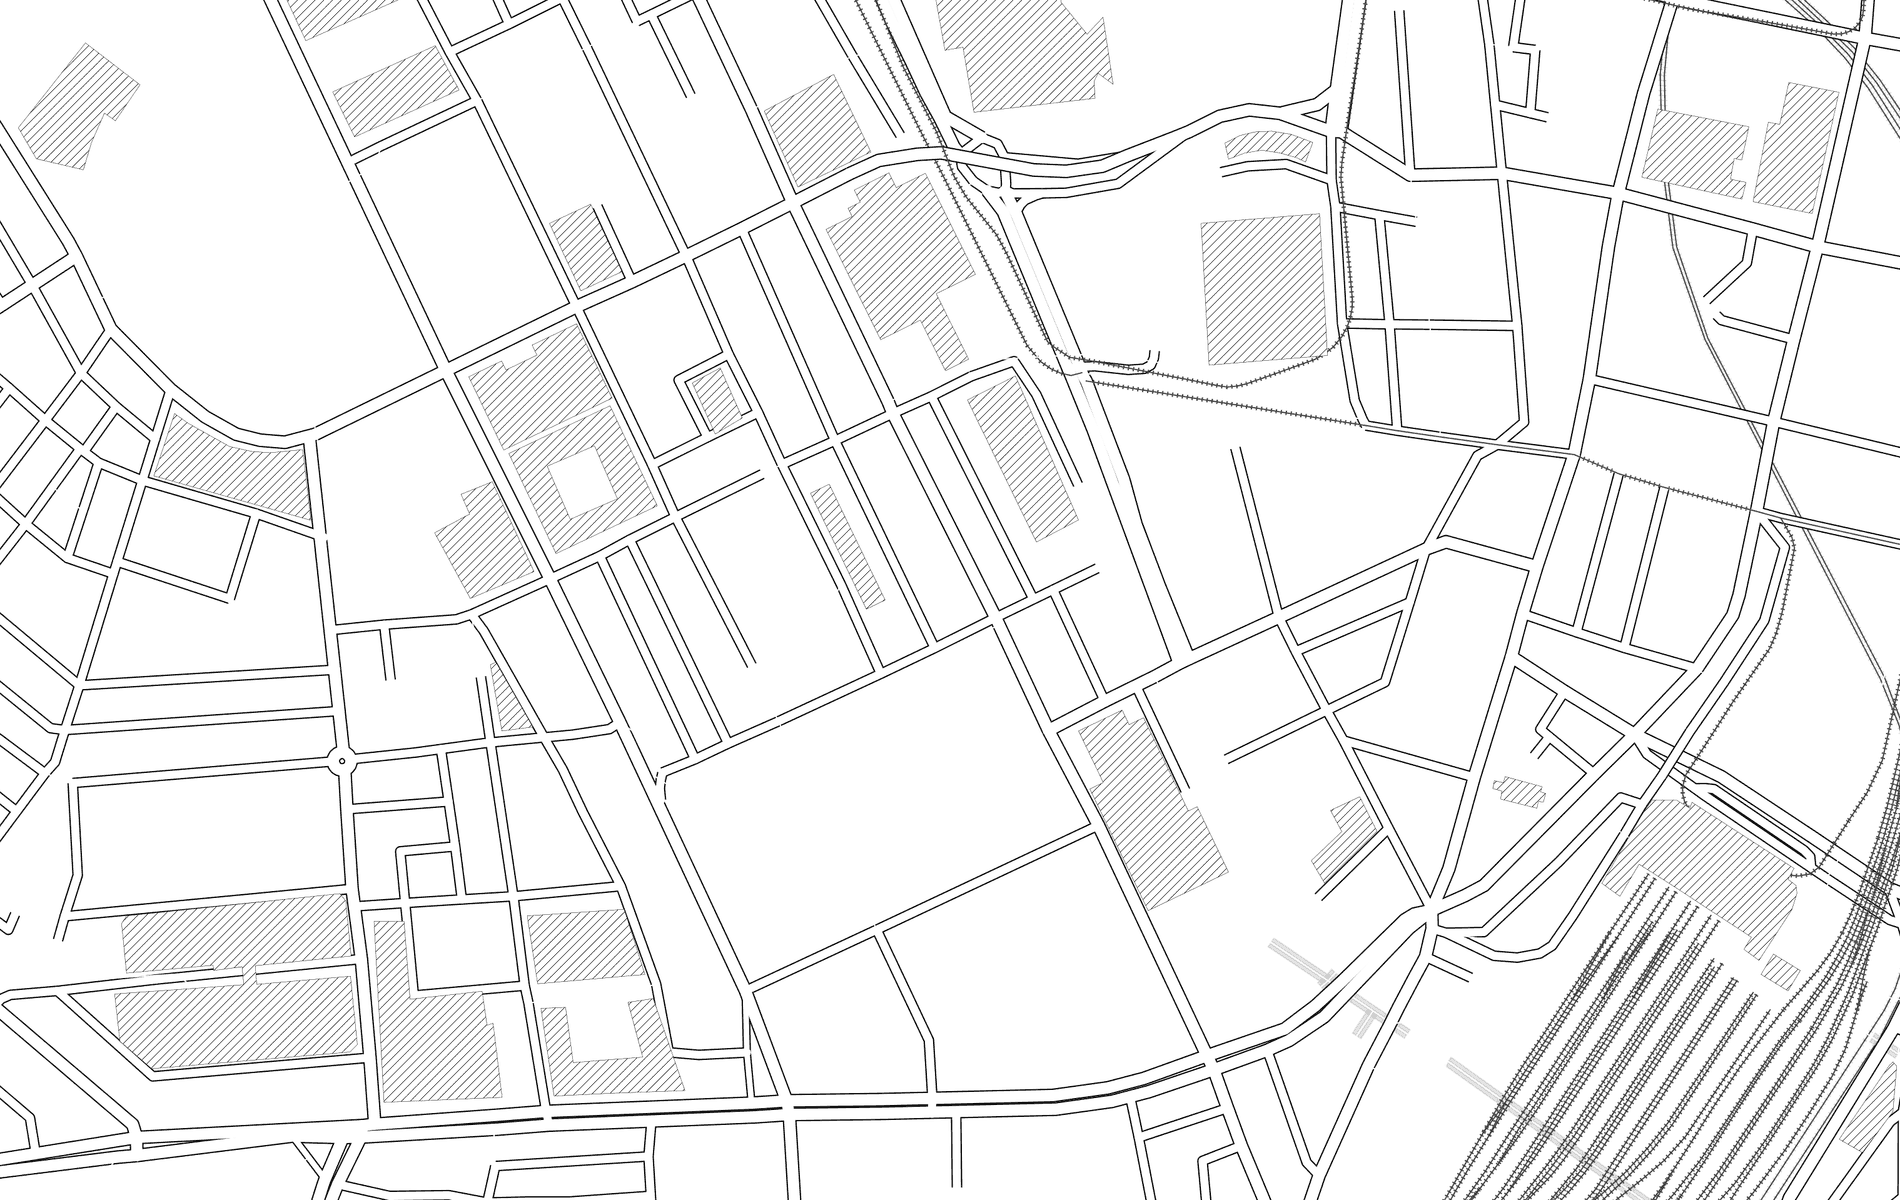
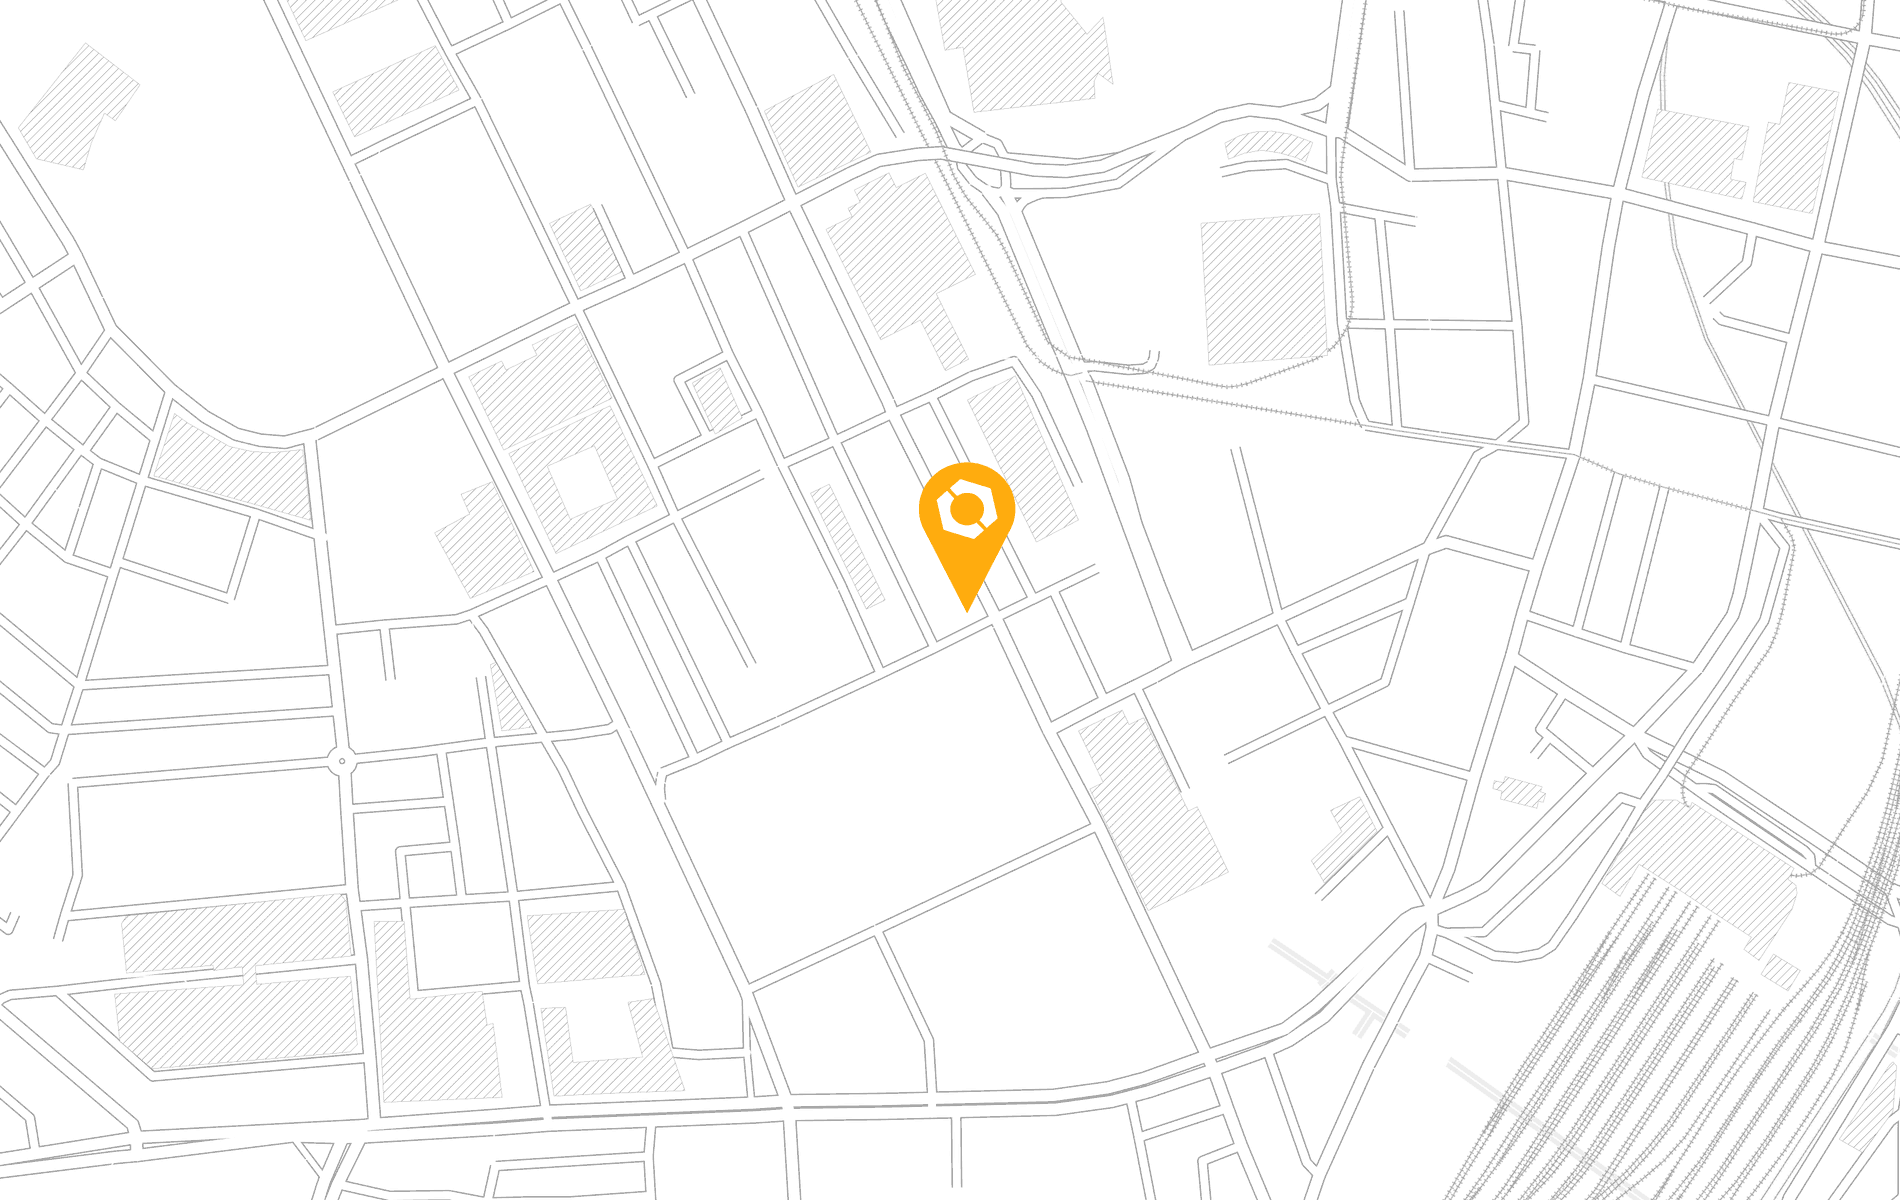
Updated layouts for contact, neighbourhood and general tweaks

diff --git a/stylesheets/styles.css b/stylesheets/styles.css
@@ -7,7 +7,6 @@ body { margin: 0; padding: 0; background: #fff; color: #000; }
 
 section, section p, section li { font: 21px/1.25em "chaparral-pro", georgia, serif; }
 
-a { font-style: italic; }
 
 .clear {clear: both;}
 
@@ -83,7 +82,7 @@ header.header p {width: auto; text-align: left; font-family: "chaparral-pro", ge
 header.header p:before { content: "because ";}
 
 
-#intro {  padding: 4% 5% 3% 7.5%; background: url(../images/iconfade.png) fixed top center; color: #121212; }
+#intro {  padding: 4% 5% 3% 7.5%; background: url(../images/white85trans.png), url(../images/iconfade.png); background-attachment: fixed; background-position: top center; color: #121212; }
 #intro a { color: #000;}
 #intro p { max-width: 520px;}
 #intro p.first { max-width: 100%;}
@@ -105,18 +104,20 @@ nav li a:hover { background: #C91604;  -webkit-transition: all 0.1s ease-out;}
 #the-space h2 span { font-size: 38px; letter-spacing: normal; margin-right: -10px; position: relative; top: -62px; border-bottom: 5px solid #fff; }
 #the-space header p {background: rgb(191,21,4); color: #fff; font-size: 0.8em; overflow: auto; padding: 0.5em 1em;}
 #the-space header span.date {margin-left: 1em;}
-#the-space header a.lastfm {float: right;}
+#the-space header .musicsources {float: right;}
 #the-space section p { background: rgba(0,0,0,0.77) url(../images/iconfade.png) fixed top center; color: #fff; width: 32%; min-width: 300px; float: left; clear: left; padding: 15px 4.5% 15px 7%; margin: 0; }
 #the-space section p:last-child { padding-bottom: 64px; }
 #the-space section p.first { padding-top: 64px; } /* I know, I know, this is a dirty hack. Please fix me. */
 #the-space a { color: #fff; }
 
-#the-neighbourhood {background: #c91604 url(../images/partners.jpg) fixed repeat 90% 30%; overflow: auto; padding: 11% 0 11% 0;}
-	#the-neighbourhood #map {float: left; height: 100%; margin: 0 2% 0 2%; position: relative; width: 40%;}
-	#the-neighbourhood #hood-talk {background: rgba(250,250,250,0.77); color: #000; float: right; margin-right: 2%; padding: 3%; width: 48%;}
+#the-neighbourhood {background: #fff url(../images/mapimage-1.png) fixed repeat 50% 50%; overflow: auto; padding: 6% 0 11% 0;}
+	#the-neighbourhood #map {float: left; height: 80%; margin: 3.4% 2% 0 2%; position: relative; width: 40%;}
+	#the-neighbourhood #hood-talk {background: rgba(255,255,255,0.8); color: #111; float: right; margin-right: 0; padding: 3% 6% 3% 2%; width: 32%;}
 	#the-neighbourhood iframe {height: 100%; width: 100%;}
 #the-neighbourhood h2 {  font-weight: 200; font-size: 87px; line-height: 74px; color: #212121; display: block; margin-bottom: 45px; letter-spacing: -0.03em; width: 100% !important;  }
-#the-neighbourhood h2 span { font-family: "din-condensed-web", "Arial Narrow", sans-serif; text-transform: uppercase; letter-spacing: -0.07em; color: #616161; display: block; }
+#the-neighbourhood h2 span { font-family: "din-condensed-web", "Arial Narrow", sans-serif; text-transform: uppercase; letter-spacing: -0.07em; color: #ffac0e; display: block; }
+#the-neighbourhood a { color: #000;}
+#the-neighbourhood a:hover { color: #ffac0e; }
 
 #how-it-works { background: #fff url(../images/nametag.svg) scroll no-repeat -7% 10%; background-size: 33%;  color: #222; clear: right; padding: 5% 8% 7% 32%; }
 #how-it-works h2 { color: #ffac0e; font-family: "din-condensed-web", "Arial Narrow", sans-serif; font-weight: 200; font-size: 117px; line-height: 0.8; text-transform: uppercase; letter-spacing: -0.06em;}
@@ -128,19 +129,26 @@ nav li a:hover { background: #C91604;  -webkit-transition: all 0.1s ease-out;}
 #membership-details li:hover a.register-interest:hover { background: #BF1504;  color: #fff; -webkit-transition: all 0.15s ease-in; }
 
 
+#contact { background: url(../images/black85trans.png), url(../images/mapimage-1.png); background-attachment: fixed; background-position: 50% 50%;}
 #contact h2 {font-family: "din-condensed-web", "Arial Narrow", sans-serif; font-weight: 200; font-size: 87px; line-height: 74px; padding: 32px 0 0 0; text-transform: uppercase; letter-spacing: -0.07em; }
 #contact .streetaddress { display: block; font-size: 32px; margin: 8px 0;}
 #contact .streetaddress a { font-style: normal; }
+#contact .open-hours { margin-bottom: 2.4em;}
 
 #contact #vitals { width: 55%; display: inline-block; vertical-align: top;}
 
 #contact #bios { width: 42%; display: inline-block;}
 
 #contact #bios section { display: inline-block; vertical-align: top; width: 22%; margin: 0 5%; text-align: center;}
-#contact #bios img { width: 120px; height: 120px; border-radius: 75px; }
+#contact #bios img { width: 120px; height: 120px; border-radius: 75px; -webkit-transition: 0.6s all ease-in; }
+#contact #bios a:hover img { opacity: 0.6; -webkit-transition: 0.1s all ease-out; }
 #contact #bios p { font-size: 0.8em; line-height: 1.3em;}
 #contact #bios h3 { font-weight: 200;  }
+#contact #bios .email { font-family: "chaparral-pro", georgia, serif; font-weight: 200; font-size: 52px; margin: 0.5em 0; text-align: center; }
+#contact #bios .email a { font-style: normal;}
 
+#emailform { margin-top: 1em;}
+#emailform p { font-size: 0.8em; }
 #emailform p, #emailform form { margin-top: 0;}
 
 }

diff --git a/index.html b/index.html
@@ -51,7 +51,7 @@
 					&#9835;
 					<span class="header">Last Played:</span>
 					<span class="song">…</span>
-					<a href="http://www.last.fm/user/workatworkbench" class="lastfm">The Workbench on Last.fm</a>
+					<span class="musicsources">We&rsquo;re on <a href="http://www.rdio.com/people/TheWorkbench/playlists/">Rdio</a> and <a href="http://www.last.fm/user/workatworkbench" class="lastfm">Last.fm</a></span>
 				</p>
 			</header>
 
@@ -195,7 +195,7 @@
 			<section id="hood-talk">
 				<h2><span>Ultimo, Sydney</span> is our &lsquo;hood</h2>
 				<p class="first">We&rsquo;re excited to be a part of the community in Ultimo, just outside the Sydney CBD.</p>
-				<p>The area has plenty of cafes (<a href="https://foursquare.com/v/mio-mia-cafe/4ed4234d490168f8d42a687f">Mio Mia</a> in our building, <a href="http://www.ledepot.com.au/">Le Depot</a> just up the road, and a stack more including the coffee-nerd haven <a href="http://meccaespresso.com/">Mecca Espresso</a> within a block away) and plenty of options for lunch (we&rsquo;re often at <a href="http://www.urbanspoon.com/r/70/1445468/restaurant/Sydney/Sydney-Kopitiam-Cafe-Ultimo">Kopitiam</a> for malaysian street food). Haymarket&rsquo;s a few minutes walk if you&rsquo;d like Sydney&rsquo;s best noodles, featuring incongrous grapevines</p>
+				<p>The area has plenty of cafes (<a href="https://foursquare.com/v/mio-mia-cafe/4ed4234d490168f8d42a687f">Mio Mia</a> in our building, <a href="http://www.ledepot.com.au/">Le Depot</a> just up the road, and a stack more including the coffee-nerd haven <a href="http://meccaespresso.com/">Mecca Espresso</a>) and plenty of options for lunch (we&rsquo;re often at <a href="http://www.urbanspoon.com/r/70/1445468/restaurant/Sydney/Sydney-Kopitiam-Cafe-Ultimo">Kopitiam</a> for malaysian street food). Haymarket&rsquo;s a few minutes walk if you&rsquo;d like Sydney&rsquo;s best noodles, featuring incongrous grapevines</p>
 				<p>There&rsquo;s a park right behind our block that&rsquo;s perfect for soaking up sunshine or kicking a ball around at lunch, and the <a href="http://www.itac.org.au/">Ian Thorpe Acquatic Centre</a> is five minutes away if swimming laps or hitting the sauna is more your style.</p>
 				<p><a href="http://goo.gl/maps/Kd2p8">Our favourites, mapped</a>.</p>
 			</section>
@@ -213,6 +213,7 @@
 
 				<section id="emailform">
 					<h3>Mailing List</h3>
+					<p>We&rsquo;ll send you updates, not&nbsp;spam.</p>
 					<form action="http://theworkbench.createsend.com/t/j/s/vhhth/" method="post">
 						<div>
 							<label for="name">Name:</label> <input class="text" type="text" name="cm-name" id="name" placeholder="Your name" size="23" /><br />
@@ -220,27 +221,27 @@
 							<button type="submit">Sign up</button>
 						</div>
 					</form>
-					<p><br>We send you updates, not&nbsp;spam.</p>
 				</section>
 			</section>
 
 
 			<section id="bios">
 				<section>
-					<img src="http://si0.twimg.com/profile_images/2657372470/66cb62c3bd821f7407a4759e06681e67.jpeg" />
+					<a href="http://twitter.com/lachlanhardy/"><img src="images/avatar-lachlan.jpg" alt="Lachlan Hardy" /></a>
 					<h3>Lachlan Hardy</h3>
 					<p><a href="http://twitter.com/lachlanhardy/">@lachlanhardy</a></p>
 				</section>
 				<section>
-					<img src="http://si0.twimg.com/profile_images/2621887567/08B370F8-89E0-4D0D-B7D3-86B811C42061" />
+					<a href="http://twitter.com/scottinsyd/"><img src="images/avatar-scott.jpg" alt="Scott Crawford" /></a>
 					<h3>Scott Crawford</h3>
 					<p><a href="http://twitter.com/scottinsyd/">@scottinsyd</a></p>
 				</section>
 				<section>
-					<img src="http://si0.twimg.com/profile_images/1237186142/portrait---by-e-sq.jpg" />
+					<a href="http://twitter.com/diversionary/"><img src="images/avatar-simon.jpg" alt="Simon Wright" /></a>
 					<h3>Simon Wright</h3>
 					<p><a href="http://twitter.com/diversionary/">@diversionary</a></p>
 				</section>
+				<p class="email"><a href="mailto:hello@theworkben.ch">hello@theworkben.ch</a></p>
 			</section>
 
 		</section>
